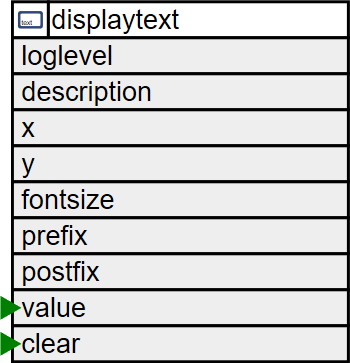
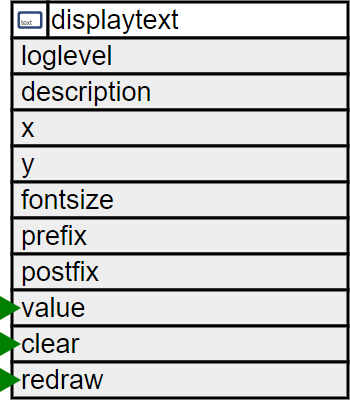
display elements doku

diff --git a/elements/displaytext.md b/elements/displaytext.md
@@ -15,21 +15,34 @@ The DisplayTextElement is included in the collection of core elements.
 
 Be aware that the positions and fontsize of the configurations must match to the capabilities existing display.
 
+
 ## Element Configuration
 
 The following properties are available for configuration of the element:
 
-| Property   | Description                                                                                    |
-| ---------- | ---------------------------------------------------------------------------------------------- |
-| `x`        | Specifies the x position of the text.                                                          |
-| `y`        | Specifies the y position of the text.                                                          |
-| `value`    | This value will be send to the display.                                                        |
-| `clear`    | This property set to any value will remove the text from the display.                          |
-| `prefix`   | This text is always send to the display as a prefix to the value.                              |
-| `postfix`  | This text is always send to the display as a postfix to the value.                             |
-| `fontsize` | This is the fontsize to be used. Do not specify or use 0 to get the default/smallest fontsize. |
+**x** -- Specifies the x position of the text.                                                          
 
+**y** -- Specifies the y position of the text.                                                          
+
+**clear** -- This property set to any value will remove the text from the display.                          
+
+**prefix** -- This text is always send to the display as a prefix to the value.                              
+
+**postfix** -- This text is always send to the display as a postfix to the value.                             
+
+**fontsize** -- This is the fontsize to be used. Do not specify or use 0 to get the default/smallest fontsize. 
 For the OLED drivers the font sizes 10, 16 and 24 are supported.
+
+## Element Actions
+
+The following actions can be sent to the element:
+
+**value** -- This value is sent to the display including prefix and postfix texts.
+
+**clear** -- The value is cleared and the display is updated by sending prefix and postfix texts.
+
+**redraw** -- The value is sent to the display including prefix and postfix texts.                                                        
+
 
 ### Example for Configuration
 

diff --git a/elements/displayline.md b/elements/displayline.md
@@ -1,0 +1,68 @@
+# The DisplayLine Element
+
+::: excerpt displayline
+The DisplayLineElement allows drawing a simple line on the display when the display supports lines.
+:::
+
+It is not required for all displays to support all these Elements and when a device only has a simple LCD
+attached maybe only using the DisplayTextElements is appropriate.
+
+The DisplayLineElement is included in the collection of core elements.
+
+![DisplayLine Properties and Actions](/elements/displaylineapi.png)
+
+
+## Element Configuration
+
+The following properties are available for configuration of the element:
+
+**x0** -- Specifies the starting x position of the line.                                                          
+
+**y0** -- Specifies the starting y position of the dot/circle.                                                          
+
+**x1** -- Specifies the ending x position of the line.                                                          
+
+**y1** -- Specifies the ending y position of the dot/circle.                                                          
+
+## Element Actions
+
+The following actions can be sent to the element:
+
+**redraw** -- The display is updated.                                                        
+
+
+### Example for Configuration
+
+```JSON
+{
+  "displayline": {
+    "l": {
+      "x0": 0,
+      "y0": 12,
+      "x1": 127,
+      "y1": 12,
+      "description": "Display a line"
+    }
+  }
+}
+```
+
+## Element State
+
+The following properties are available with the current values at runtime
+
+| Property | Description                         |
+| -------- | ----------------------------------- |
+| `active` | The elem ent is in activated state. |
+
+
+### Example State
+
+```JSON
+{
+  "displayline/l": {
+    "active": "true"
+  }
+}
+```
+

diff --git a/elements/displaydot.md b/elements/displaydot.md
@@ -1,7 +1,7 @@
 # The DisplayDot Element
 
 ::: excerpt displaydot
-The DisplayDotElement allows sending a boolean value to the display and place it at a specified position as a shallow or filled dot.
+The DisplayDotElement allows sending a boolean value to the display and place it at a specified position as a shallow or filled dot/circle.
 The value can be changed by using an action.
 :::
 
@@ -18,15 +18,25 @@ The DisplayDotElement is included in the collection of core elements.
 
 ![DisplayDot Properties and Actions](/elements/displaydotapi.png)
 
+
 ## Element Configuration
 
 The following properties are available for configuration of the element:
 
-| Property | Description                             |
-| -------- | --------------------------------------- |
-| `x`      | Specifies the x position of the text.   |
-| `y`      | Specifies the y position of the text.   |
-| `value`  | This value will be send to the display. |
+**x** -- Specifies the x position of the dot/circle.                                                          
+
+**y** -- Specifies the y position of the dot/circle.                                                          
+
+## Element Actions
+
+The following actions can be sent to the element:
+
+**value** -- This boolean interpreted value is sent to the display.
+
+**clear** -- The value is set to false and the display is updated.
+
+**redraw** -- The display is updated.                                                        
+
 
 ### Example for Configuration
 
@@ -36,7 +46,7 @@ The following properties are available for configuration of the element:
     "b": {
       "x": 15,
       "y": 0,
-      "description": "Display a bink"
+      "description": "Display a blinking dot"
     }
   }
 }
